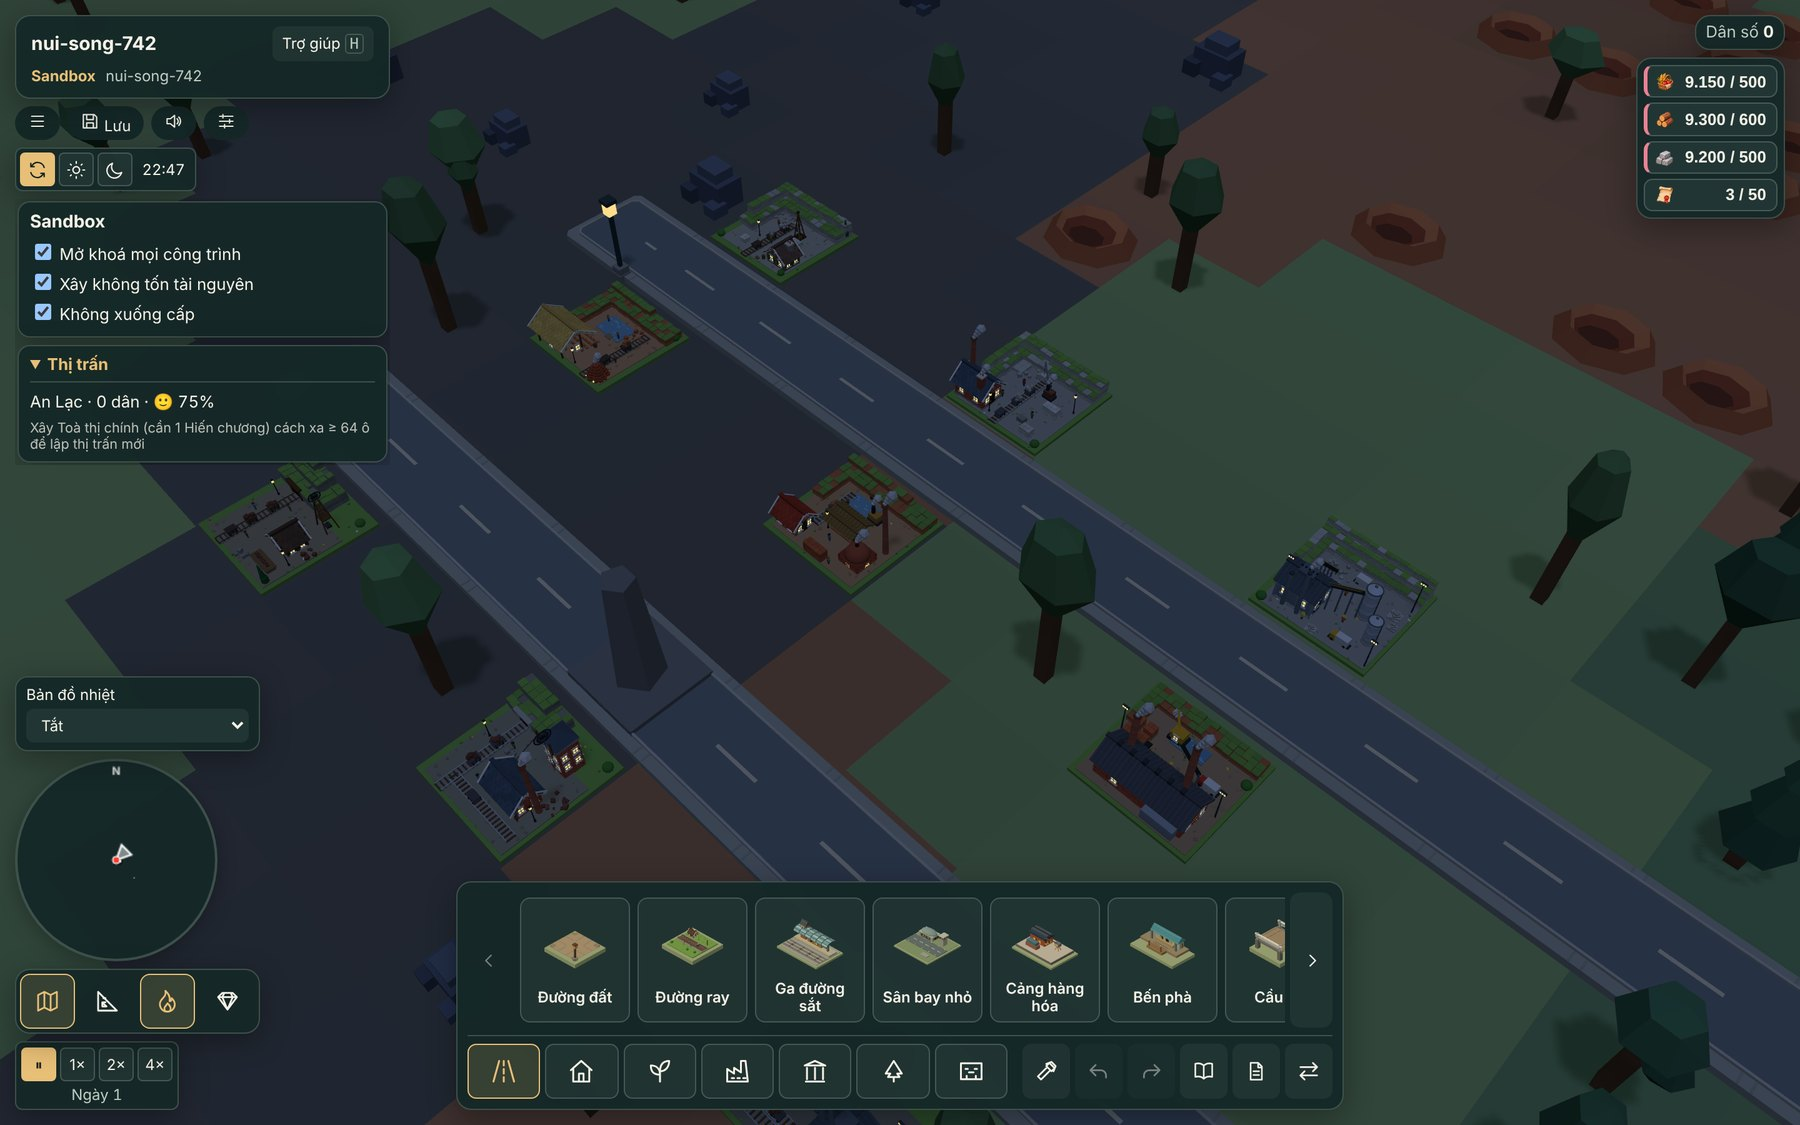
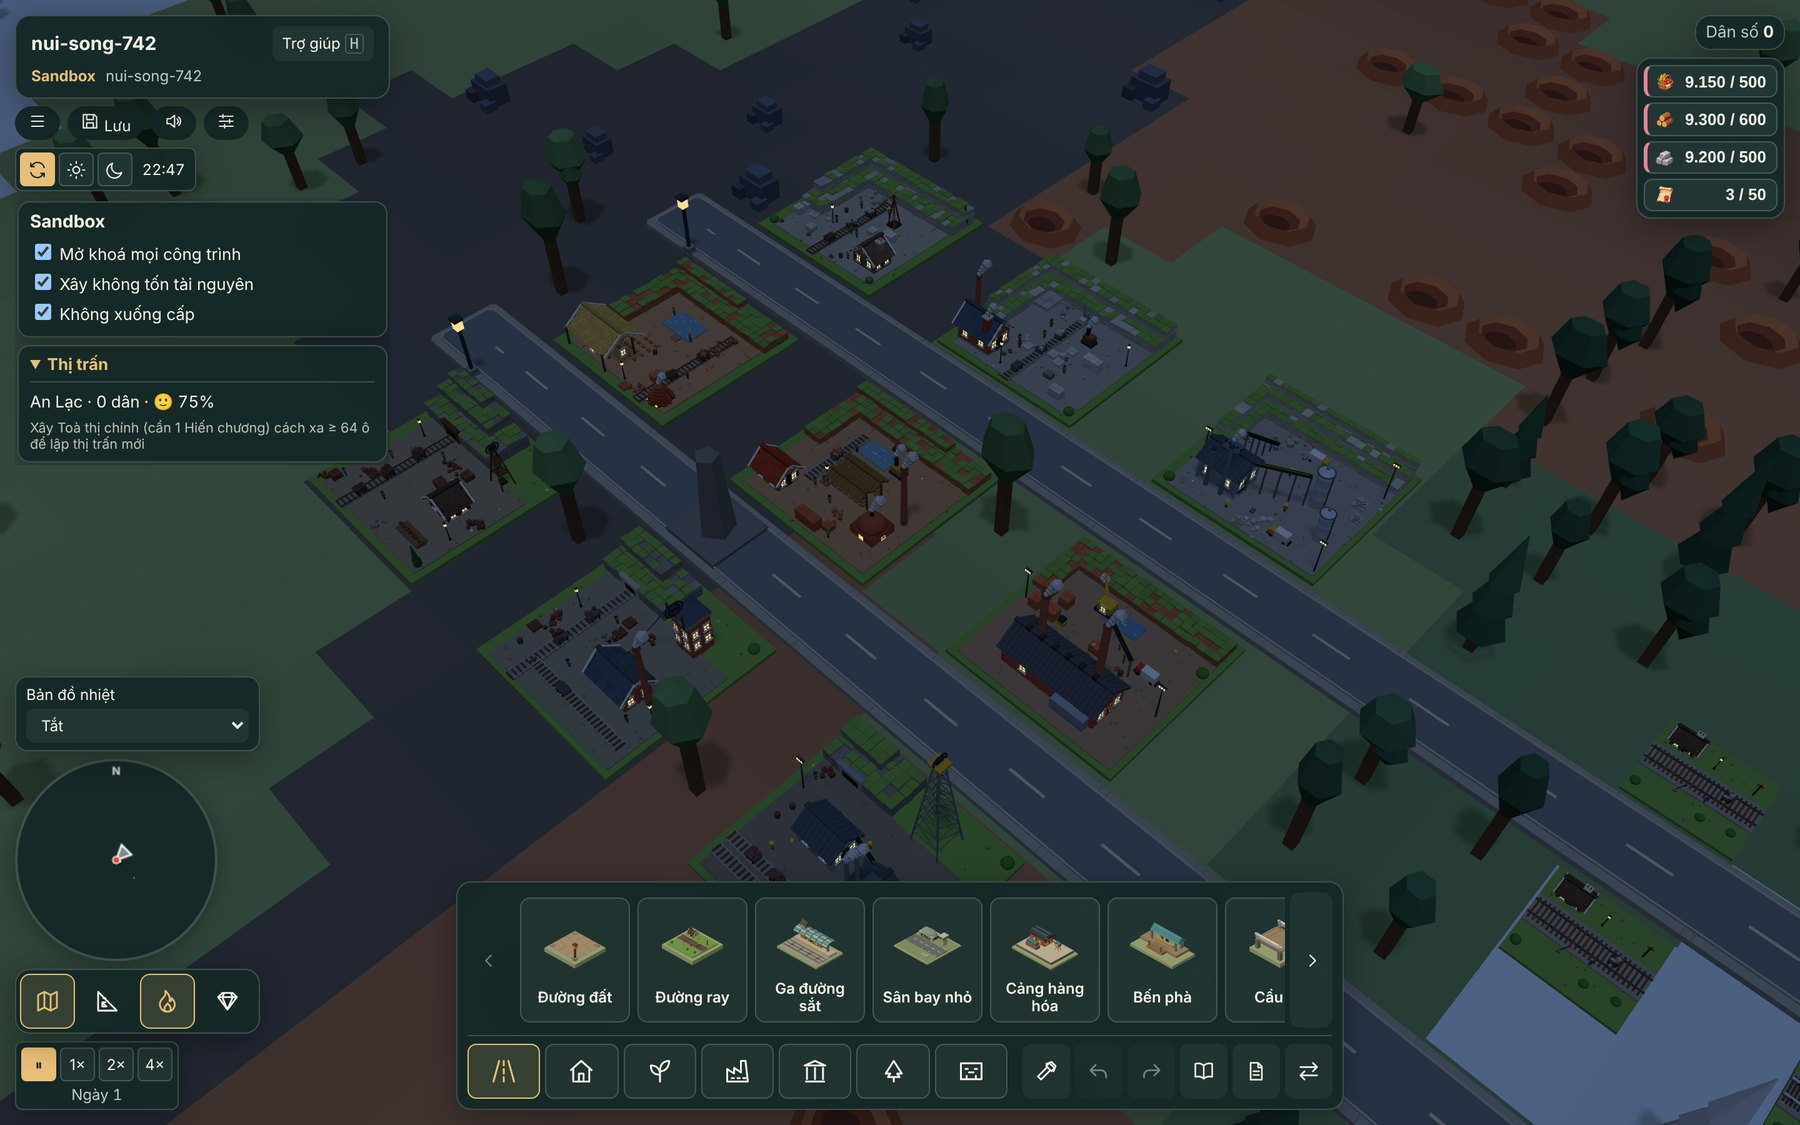
Enlarge mining chains to 2x2 lots
Quarry, clay pit and iron mine tiers now cover 2x2 tiles. The diorama recipes
are drawn in a smaller frame and scaled up, with extra work yards filling the
added space. Updates screenshots, README and the silhouette test.

Claude-Session: https://claude.ai/code/session_012cw9uibYHunNc9yn7T3gH1

diff --git a/src/render/architecture/miningDiorama.ts b/src/render/architecture/miningDiorama.ts
@@ -357,6 +357,29 @@ function windingWheel(l: Lot, x: number, z: number, y: number, r: number, ry: nu
   l.shape(hub, '#1f2326', x, z, y);
 }
 
+/** Work yard filler for the larger 2x2 lots: crates, barrels, stacks and loose material. */
+function yard(
+  l: Lot,
+  x0: number,
+  z0: number,
+  x1: number,
+  z1: number,
+  kind: 'stone' | 'brick' | 'ore',
+  n: number,
+): void {
+  const mat = { stone: '#cfc9b9', brick: '#bd6a45', ore: '#7a4a3a' }[kind];
+  for (let i = 0; i < n; i++) {
+    const x = x0 + rand() * (x1 - x0);
+    const z = z0 + rand() * (z1 - z0);
+    const r = rand();
+    if (r < 0.34) blockStack(l, x, z, 0.036, 2, 2, 1 + Math.floor(rand() * 3), mat);
+    else if (r < 0.52) crate(l, x, z, 0.036, kind === 'ore' ? '#7a4a3a' : '#8a6a48', rand() * 3);
+    else if (r < 0.66) barrel(l, x, z);
+    else if (r < 0.88) rubble(l, x, z, 0.036, 6, 0.08, mat);
+    else person(l, x, z, 0.036, ['#8a4a3a', '#5a7a9a', '#6a8a5a'][i % 3]!, '#3a3a3c');
+  }
+}
+
 /** Workers (hi-vis or period coats). */
 function workers(
   l: Lot,
@@ -372,6 +395,8 @@ export const miningDiorama: Recipes = {
   // -----------------------------------------------------------------------------------------
   quarry(l) {
     ground(l, 'quarry', '#a39c8c', [0.1, 0.1, 0.92, 0.92]);
+    yard(l, 0.1, 0.5, 0.38, 0.95, 'stone', 9);
+    yard(l, 0.54, 0.5, 0.7, 0.7, 'stone', 5);
     const rock = '#bdb6a6';
     // Two benches cut into the back and left of the lot.
     rockMass(l, 0.06, 0.06, 0.94, 0.26, 0.036, 0.075, rock, grass);
@@ -437,6 +462,8 @@ export const miningDiorama: Recipes = {
 
   steam_quarry(l) {
     ground(l, 'steam_quarry', '#a39d8e', [0.1, 0.1, 0.94, 0.94]);
+    yard(l, 0.56, 0.54, 0.68, 0.72, 'stone', 5);
+    yard(l, 0.36, 0.4, 0.44, 0.95, 'stone', 6);
     const rock = '#c4beae';
     rockMass(l, 0.05, 0.05, 0.95, 0.24, 0.036, 0.07, rock, grass);
     rockMass(l, 0.05, 0.05, 0.95, 0.15, 0.106, 0.06, shade(rock, 0.95), grass);
@@ -498,6 +525,8 @@ export const miningDiorama: Recipes = {
 
   industrial_quarry(l) {
     ground(l, 'industrial_quarry', '#9c978a', [0.08, 0.08, 0.95, 0.95]);
+    yard(l, 0.1, 0.4, 0.2, 0.62, 'stone', 4);
+    yard(l, 0.5, 0.78, 0.62, 0.95, 'stone', 4);
     const rock = '#c9c3b4';
     rockMass(l, 0.05, 0.05, 0.95, 0.22, 0.036, 0.06, rock, grass);
     rockMass(l, 0.05, 0.05, 0.95, 0.15, 0.096, 0.055, shade(rock, 0.95), grass);
@@ -556,6 +585,7 @@ export const miningDiorama: Recipes = {
   // -----------------------------------------------------------------------------------------
   clay_pit(l) {
     ground(l, 'clay_pit', '#b98a62', [0.1, 0.1, 0.92, 0.92]);
+    yard(l, 0.6, 0.5, 0.72, 0.95, 'brick', 6);
     const clay = '#c4724a';
     rockMass(l, 0.06, 0.06, 0.94, 0.24, 0.036, 0.06, clay, grass, 0.055);
     rockMass(l, 0.06, 0.24, 0.2, 0.62, 0.036, 0.06, clay, grass, 0.055);
@@ -627,6 +657,8 @@ export const miningDiorama: Recipes = {
 
   brick_works(l) {
     ground(l, 'brick_works', '#b58a62', [0.08, 0.08, 0.94, 0.94]);
+    yard(l, 0.34, 0.4, 0.4, 0.95, 'brick', 5);
+    yard(l, 0.56, 0.7, 0.72, 0.95, 'brick', 5);
     const clay = '#c4724a';
     rockMass(l, 0.05, 0.05, 0.95, 0.22, 0.036, 0.055, clay, grass, 0.055);
     rockMass(l, 0.05, 0.22, 0.17, 0.5, 0.036, 0.055, clay, grass, 0.055);
@@ -737,6 +769,7 @@ export const miningDiorama: Recipes = {
 
   industrial_brickyard(l) {
     ground(l, 'industrial_brickyard', '#aa8a68', [0.06, 0.06, 0.95, 0.95]);
+    yard(l, 0.4, 0.5, 0.7, 0.58, 'brick', 5);
     const clay = '#c4724a';
     rockMass(l, 0.05, 0.05, 0.95, 0.2, 0.036, 0.05, clay, grass, 0.055);
     rockMass(l, 0.05, 0.2, 0.15, 0.42, 0.036, 0.05, clay, grass, 0.055);
@@ -807,6 +840,8 @@ export const miningDiorama: Recipes = {
   // -----------------------------------------------------------------------------------------
   iron_mine(l) {
     ground(l, 'iron_mine', '#988a6e', [0.1, 0.3, 0.94, 0.94]);
+    yard(l, 0.4, 0.4, 0.6, 0.55, 'ore', 6);
+    yard(l, 0.08, 0.7, 0.24, 0.95, 'ore', 5);
     const rock = '#8d887c';
     // Rocky hillside with the timber-framed adit cut into its face.
     rockMass(l, 0.05, 0.05, 0.62, 0.3, 0.036, 0.1, rock, grass, 0.06);
@@ -866,6 +901,8 @@ export const miningDiorama: Recipes = {
 
   shaft_iron_mine(l) {
     ground(l, 'shaft_iron_mine', '#8f8670', [0.08, 0.28, 0.95, 0.95]);
+    yard(l, 0.4, 0.4, 0.58, 0.55, 'ore', 6);
+    yard(l, 0.08, 0.6, 0.2, 0.95, 'ore', 4);
     const rock = '#8d887c';
     rockMass(l, 0.05, 0.05, 0.5, 0.28, 0.036, 0.09, rock, grass, 0.06);
     rockMass(l, 0.05, 0.05, 0.36, 0.17, 0.126, 0.07, shade(rock, 0.95), grass, 0.06);
@@ -932,6 +969,8 @@ export const miningDiorama: Recipes = {
 
   deep_iron_mine(l) {
     ground(l, 'deep_iron_mine', '#857c6a', [0.06, 0.26, 0.95, 0.95]);
+    yard(l, 0.06, 0.3, 0.16, 0.6, 'ore', 4);
+    yard(l, 0.8, 0.3, 0.94, 0.55, 'ore', 4);
     const rock = '#8a867c';
     rockMass(l, 0.05, 0.05, 0.46, 0.26, 0.036, 0.08, rock, grass, 0.06);
     rockMass(l, 0.05, 0.05, 0.3, 0.16, 0.116, 0.06, shade(rock, 0.95), grass, 0.06);

diff --git a/src/render/architectureModels.ts b/src/render/architectureModels.ts
@@ -46,15 +46,27 @@ const dioramas = new Set([
   ...Object.keys(coastDiorama),
   ...Object.keys(miningDiorama),
 ]);
+/**
+ * Dioramas drawn in a smaller frame and scaled up to fill a larger footprint: the recipe sees a
+ * lot of 2 / zoom units, so its fractional layout and world-unit props keep their proportions
+ * while the finished model grows by `zoom`.
+ */
+const zoomed = new Map<string, number>(Object.keys(miningDiorama).map((id) => [id, 1.5]));
 const southRows = new Set(['artisan_row_south', 'terrace_residence_south']);
 
 export function architectureModel(def: BuildingDef, parts: BufferGeometry[], variant = 0): boolean {
   const recipe = models.get(def.id);
   if (!recipe) return false;
-  const lot = new Lot(parts, def, southRows.has(def.id));
+  const zoom = def.footprint.w >= 2 ? (zoomed.get(def.id) ?? 1) : 1;
+  const frame =
+    zoom === 1
+      ? def
+      : { ...def, footprint: { w: def.footprint.w / zoom, d: def.footprint.d / zoom } };
+  const lot = new Lot(parts, frame, southRows.has(def.id));
   if (def.crop) lot.stage = variant || 4;
   const from = parts.length;
   recipe(lot);
+  if (zoom !== 1) for (let i = from; i < parts.length; i++) parts[i]!.scale(zoom, zoom, zoom);
   if (weathered.has(def.id)) weather(parts, from, def.id);
   if (!dioramas.has(def.id)) {
     landmarks[def.id]?.(lot);

diff --git a/tests/unit/miningModels.test.ts b/tests/unit/miningModels.test.ts
@@ -15,8 +15,8 @@ describe('mining models', () => {
       ray.set(new Vector3(x, 2, z), new Vector3(0, -1, 0));
       return ray.intersectObject(new Mesh(geometry, material))[0]?.point.y ?? 0;
     };
-    expect(sample(quarry, 0.8, 0.1)).toBeGreaterThan(sample(quarry, 0.8, 0.4) + 0.12);
-    expect(sample(clay, 0.9, 0.1)).toBeGreaterThan(sample(clay, 0.9, 0.45) + 0.05);
+    expect(sample(quarry, 1.6, 0.2)).toBeGreaterThan(sample(quarry, 1.6, 0.8) + 0.12);
+    expect(sample(clay, 1.8, 0.2)).toBeGreaterThan(sample(clay, 1.8, 0.9) + 0.05);
     for (const geometry of [quarry, clay, iron]) geometry.computeBoundingBox();
     expect(iron.boundingBox!.max.y).toBeGreaterThan(quarry.boundingBox!.max.y);
     expect(iron.boundingBox!.max.y).toBeGreaterThan(clay.boundingBox!.max.y);

diff --git a/README.md b/README.md
@@ -172,12 +172,12 @@ Ruộng lúa, rau và dâu vẫn lớn dần theo mùa vụ ngay trên mô hình
 
 ### Nhóm 1: Khai khoáng và Đường ray
 
-Mỏ đá, hố đất sét, mỏ sắt và đường ray được dựng lại theo phong cách sa bàn chi tiết: tầng đá cắt từng khối, hố sét có nước, cửa hầm chống gỗ, tháp giếng, ống khói gạch, băng tải, silo thép, xe goòng, xe tải, công nhân và đèn pha. Chuỗi và ngưỡng đô thị do Antigravity thiết kế; mô hình dựng lại để khớp ảnh concept.
+Mỏ đá, hố đất sét, mỏ sắt và đường ray được dựng lại theo phong cách sa bàn chi tiết: tầng đá cắt từng khối, hố sét có nước, cửa hầm chống gỗ, tháp giếng, ống khói gạch, băng tải, silo thép, xe goòng, xe tải, công nhân và đèn pha. Mỏ đá, hố sét và mỏ sắt chiếm 2×2 ô (đường ray vẫn 1×1). Chuỗi và ngưỡng đô thị do Antigravity thiết kế; mô hình dựng lại để khớp ảnh concept.
 
 | Chuỗi                   | Cấp                                                                    |
 | ----------------------- | ---------------------------------------------------------------------- |
 | Mỏ đá (1×1, 3 cấp)      | Mỏ đá thủ công → Mỏ đá hơi nước (đô thị ≥ 2) → Mỏ đá công nghiệp (≥ 4) |
-| Hố đất sét (1×1, 3 cấp) | Hố đất sét → Lò gạch thủ công (≥ 2) → Nhà máy gạch công nghiệp (≥ 4)   |
+| Hố đất sét (2×2, 3 cấp) | Hố đất sét → Lò gạch thủ công (≥ 2) → Nhà máy gạch công nghiệp (≥ 4)   |
 | Mỏ sắt (1×1, 3 cấp)     | Mỏ sắt thủ công → Mỏ sắt giếng đứng (≥ 2) → Mỏ sắt sâu (≥ 4)           |
 | Đường ray (1×1, 2 cấp)  | Đường ray gỗ → Đường ray sắt (≥ 2)                                     |
 
